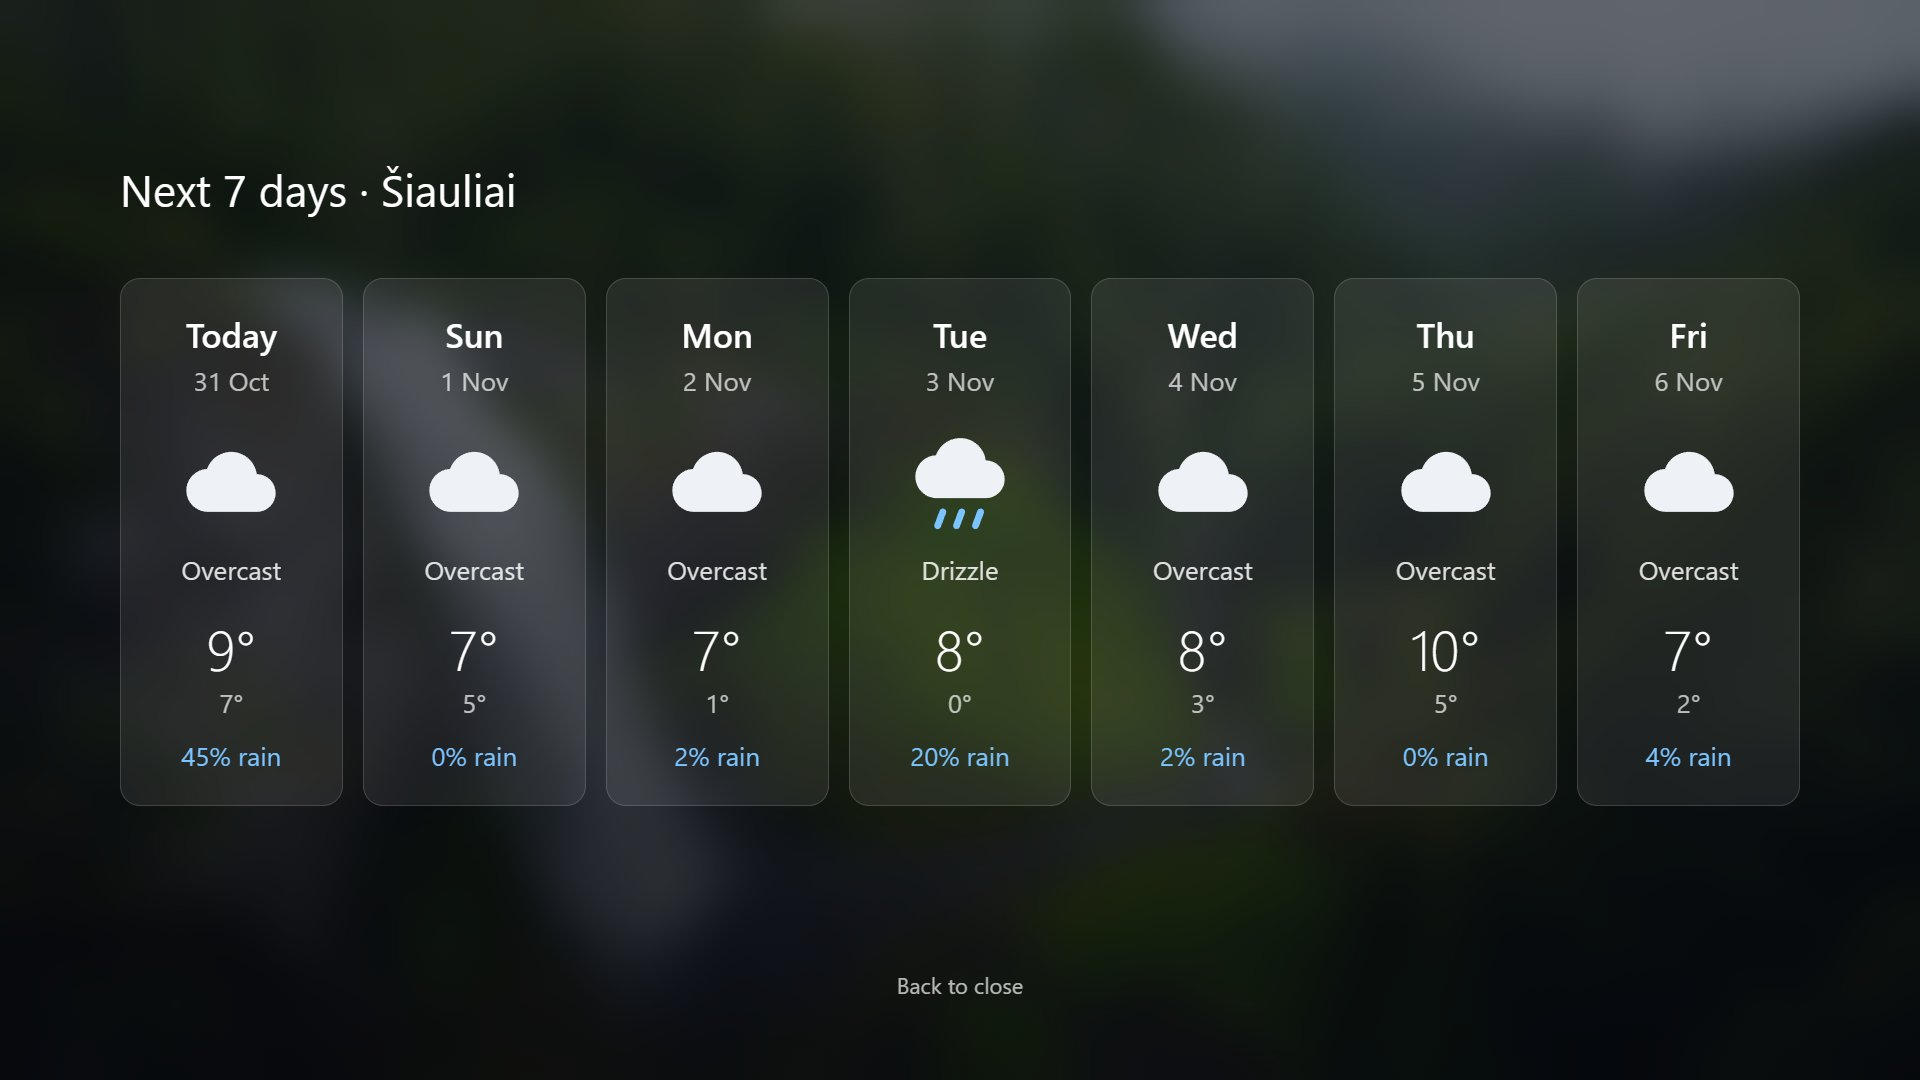
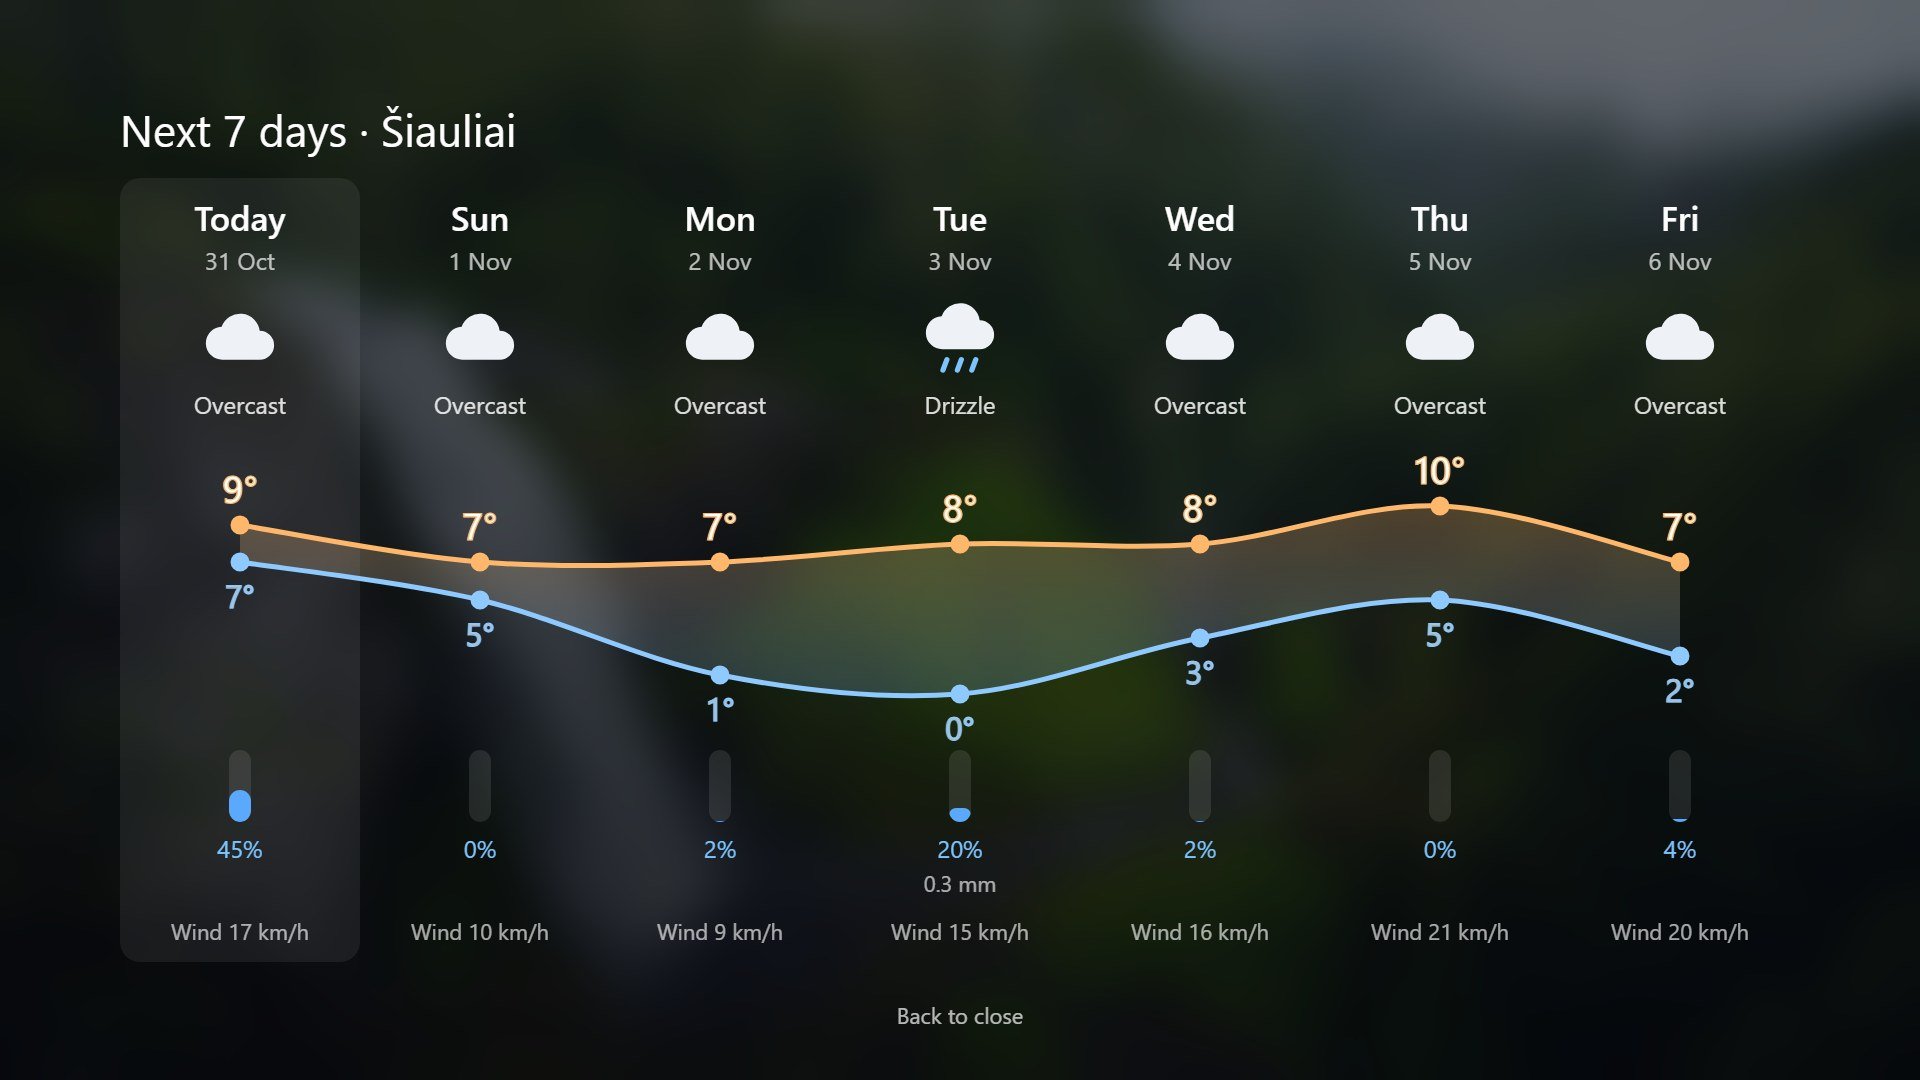
docs: README and screenshot for the new 7-day forecast

diff --git a/README.md b/README.md
@@ -44,7 +44,8 @@ Back themselves). Workaround: pin "Home" as the first app in Smart Hub's app row
 ## Using it
 
 Left/Right pick a tile, OK opens it, or press 1-9 to open a visible tile directly. Focus starts on the last tile opened.
-Up focuses the weather card; OK there shows the 7-day forecast, Back closes it. Up again focuses the gear next to
+Up focuses the weather card; OK there shows the 7-day forecast (a chart of each day's high and low, with the
+chance and amount of rain and the top wind speed below), Back closes it. Up again focuses the gear next to
 the clock; OK opens Settings. After the ambient delay (3 idle minutes by default) only the photo, a big clock and the
 temperature stay up; any key brings the rest back.
 
